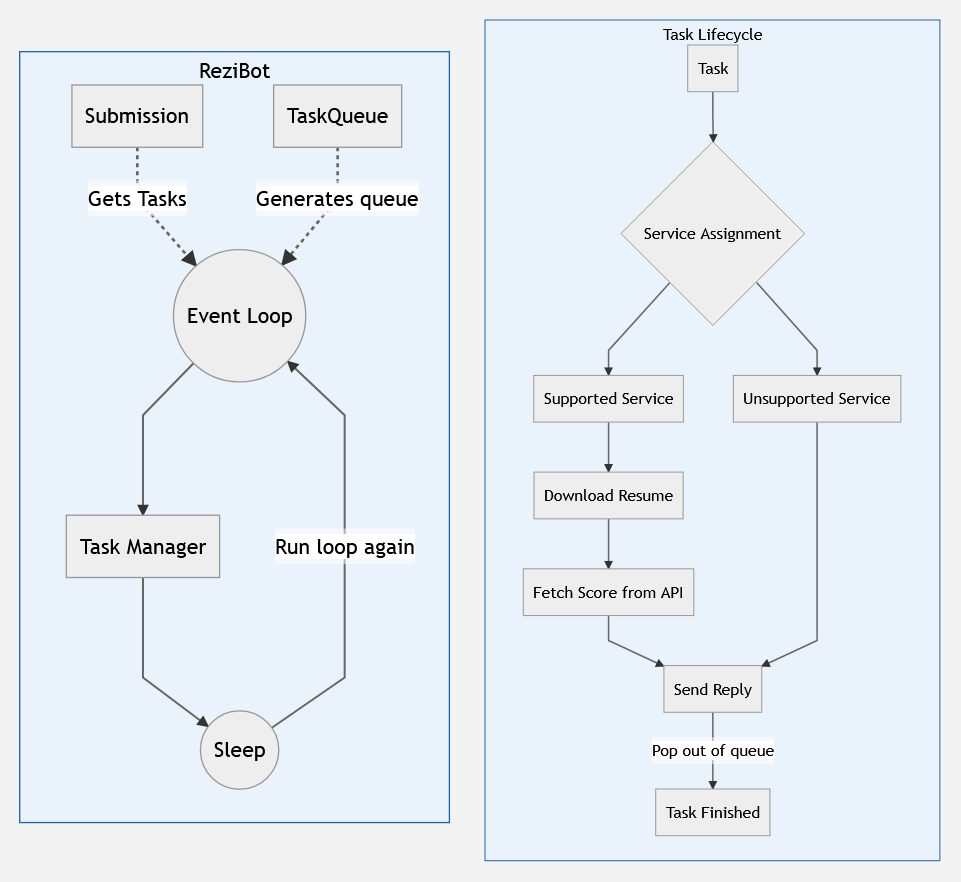
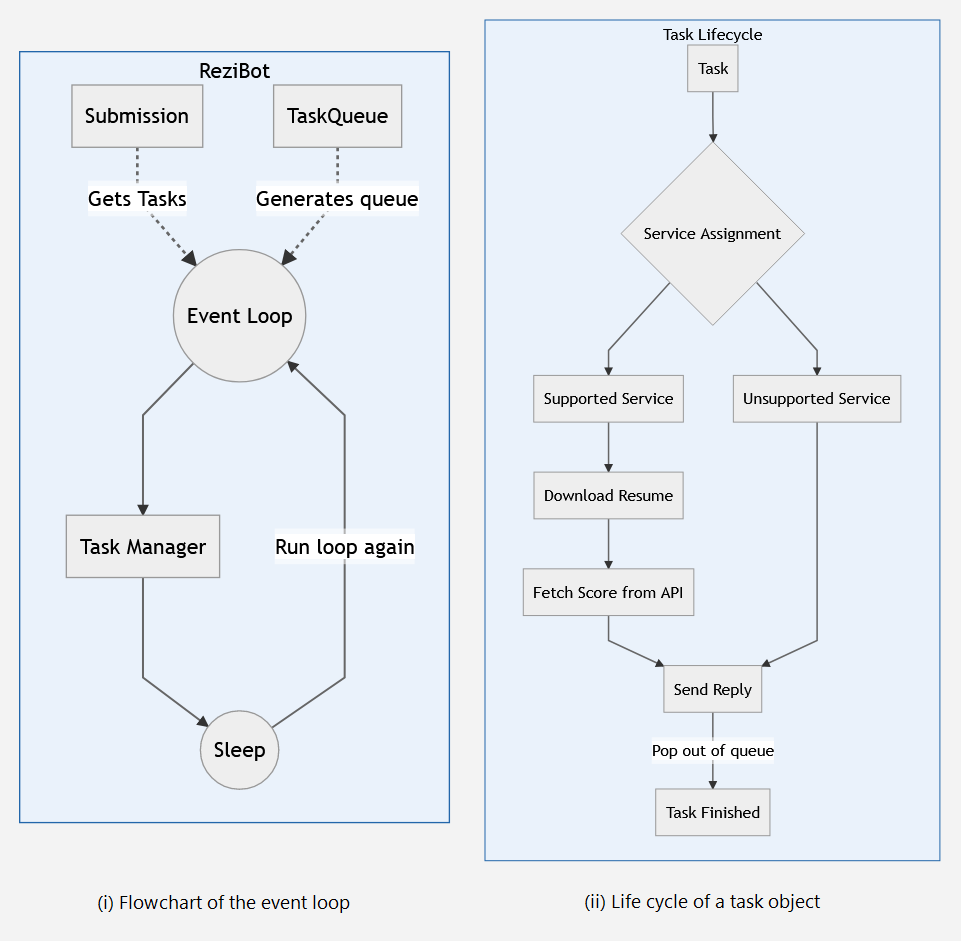
Updated readme and image

diff --git a/readme.md b/readme.md
@@ -1,7 +1,6 @@
+
 # [ReziBOT](https://github.com/psaurav1290/rezi-bot)
-**Author - [Saurav Priyadarshi](linkedin.com/in/sauravpriyadarshi90/)**
-This project was made on a freelance contract with **[Rezi | AI-Powerd Free ATS Resume Builder](https://www.rezi.ai/)**. This project helped me a lot in honing my OOP skills and writing clean modular code. I also learned how to write a good readme file. Also I accquired in-depth knowledge about achieving concurrency using multi-threading.
-***
+
 It is basic Reddit bot whose sole duty is to crawl across the given set of subreddits and find the hot-word. As soon as it get the hot-word it triggers the action of fetching the resume from the shared link, and commenting back the score of the resume. Currently the service supports only Google Drive and Docdroid share URLs whereas the modular structure of code allows to add any new service seamlessly.
 
 ### Key Features
@@ -78,22 +77,10 @@ The `/config.json` defines the behavior of the bot.
 *(Note- Keep this 0 to fetch maximum number of recent posts)*
 10. **maxThread**: Maximum number of threads that run simultaneously in the `ThreadPoolExecutor` to accomplish the task. This can be altered according to the production environment to achieve maximum efficiency.
 
-
 ## Basic Flow
+![(i) Flowchart of the event loop (ii) Lifecycle of Task Object](https://raw.githubusercontent.com/psaurav1290/rezi-bot/master/media/flowchart-1.png)
+## About the Author -
+This project was made on a freelance contract with **[Rezi | AI-Powerd Free ATS Resume Builder](https://www.rezi.ai/)**. This project helped me a lot in honing my skills and writing clean modular code. I also learned how to write a good readme file. I also discovered several aspecs of Object Oriented Programming, accquired in-depth knowledge about achieving concurrency using multi-threading, fetching files and API responses using requests.
 
-```mermaid
-graph TB
-
-S([Submission]) -.Gets Tasks.-> L((Event Loop))
-Q([TaskQueue])-.Generates queue.->L
-L ---> T(Task Manager)
-T ---> C((Sleep))
-C --Run loop again--> L
-subgraph ReziBot
-S
-Q
-L
-T
-C
-end
-```
+ Saurav Priyadarshi
+ [LinkedIn](linkedin.com/in/sauravpriyadarshi90/) | [Github](github.com/psaurav1290/)
